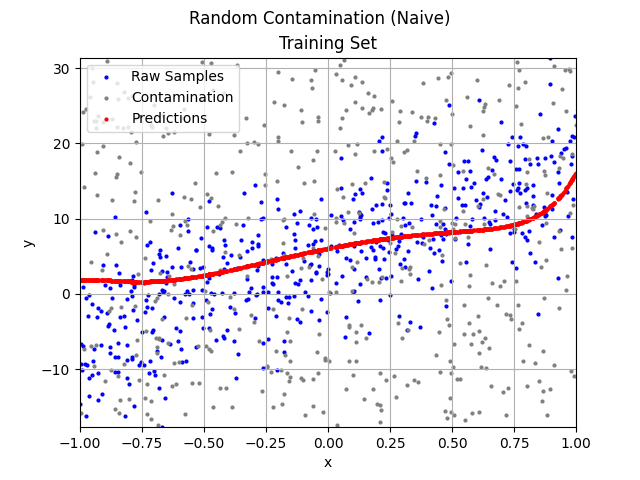
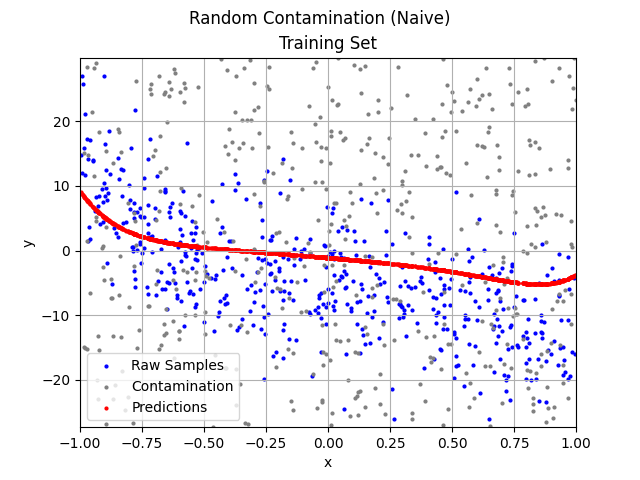
Huber Loss

diff --git a/tests/random_contamination.py b/tests/random_contamination.py
@@ -51,11 +51,39 @@ markdown_str += export_figures(
 )
 # naive model test end
 
+# huber loss test begin
+regressor = PolynomialRegressor(
+    power,
+    NullRegularization(),
+    EpsilonTrimmedHuberLoss(0, 10),
+    0.01,
+    100,
+    100000
+)
+regressor.fit(x_training, y_training)
+
+predicted_y_training = regressor.predict(x_training)
+predicted_y_testing = regressor.predict(x_testing)
+markdown_str += export_figures(
+    x_training,
+    y_training,
+    contamination_indices,
+    None,
+    None,
+    predicted_y_training,
+    x_testing,
+    y_testing,
+    predicted_y_testing,
+    "Random Contamination (Huber Loss)",
+    join("random_contamination", "huber_loss")
+)
+# huber loss test end
+
 # epsilon-trimmed huber loss test begin
 regressor = PolynomialRegressor(
     power,
     NullRegularization(),
-    EpsilonTrimmedHuberLoss(epsilon, 20),
+    EpsilonTrimmedHuberLoss(epsilon, 10),
     0.01,
     100,
     100000
@@ -81,14 +109,14 @@ markdown_str += export_figures(
 
 # mean-kernel preprocessor test begin
 preprocessor = MeanKernelPreprocessor(
-    (0.1, 5),
-    (0.02, 1),
+    (0.2, 2),
+    (0.02, 0.2),
     0.01
 )
 regressor = PolynomialRegressor(
     power,
     NullRegularization(),
-    EpsilonTrimmedHuberLoss(epsilon, 20),
+    EpsilonTrimmedSquaredLoss(0),
     0.01,
     100,
     100000
@@ -115,14 +143,14 @@ markdown_str += export_figures(
 
 # epsilon-trimmed huber loss with mean-kernel preprocessor test begin
 preprocessor = MeanKernelPreprocessor(
-    (0.1, 5),
-    (0.02, 1),
+    (0.2, 2),
+    (0.02, 0.2),
     0.01
 )
 regressor = PolynomialRegressor(
     power,
     NullRegularization(),
-    EpsilonTrimmedSquaredLoss(0),
+    EpsilonTrimmedHuberLoss(epsilon, 10),
     0.01,
     100,
     100000

diff --git a/README.md b/README.md
@@ -34,9 +34,9 @@ For all the tests, we were fitting on 9-degree polynomials (with 10 mutually ind
 
 <div style="overflow-x: scroll" markdown="block">
 
-| Test Name | Naive Training | Naive Testing | ε-trimmed Huber Loss Training | ε-trimmed Huber Loss Testing | Mean-kernel Preprocessor Training | Mean-kernel Preprocessor Testing | ε-trimmed Huber Loss with Mean-kernel Preprocessor Training | ε-trimmed Huber Loss with Mean-kernel Preprocessor Testing |
-| :-: | :-: | :-: | :-: | :-: | :-: | :-: | :-: | :-: |
-| Random Contamination | ![](test_results/random_contamination/naive/training.png) | ![](test_results/random_contamination/naive/testing.png) | ![](test_results/random_contamination/epsilon_trimmed_huber_loss/training.png) | ![](test_results/random_contamination/epsilon_trimmed_huber_loss/testing.png) | ![](test_results/random_contamination/mean_kernel_preprocessor/training.png) | ![](test_results/random_contamination/mean_kernel_preprocessor/testing.png) | ![](test_results/random_contamination/epsilon_trimmed_huber_loss_with_mean_kernel_preprocessor/training.png) | ![](test_results/random_contamination/epsilon_trimmed_huber_loss_with_mean_kernel_preprocessor/testing.png) |
-| <!-- GitHub does not render the table cell widths correctly --> | &nbsp;&nbsp;&nbsp;&nbsp;&nbsp;&nbsp;&nbsp;&nbsp;&nbsp;&nbsp;&nbsp;&nbsp;&nbsp;&nbsp;&nbsp;&nbsp;&nbsp;&nbsp;&nbsp;&nbsp;&nbsp;&nbsp;&nbsp;&nbsp;&nbsp;&nbsp;&nbsp;&nbsp;&nbsp;&nbsp;&nbsp;&nbsp;&nbsp;&nbsp;&nbsp;&nbsp;&nbsp;&nbsp;&nbsp;&nbsp;&nbsp;&nbsp;&nbsp;&nbsp;&nbsp;&nbsp;&nbsp;&nbsp;&nbsp;&nbsp;&nbsp;&nbsp;&nbsp;&nbsp;&nbsp;&nbsp;&nbsp;&nbsp;&nbsp;&nbsp;&nbsp;&nbsp;&nbsp;&nbsp; | &nbsp;&nbsp;&nbsp;&nbsp;&nbsp;&nbsp;&nbsp;&nbsp;&nbsp;&nbsp;&nbsp;&nbsp;&nbsp;&nbsp;&nbsp;&nbsp;&nbsp;&nbsp;&nbsp;&nbsp;&nbsp;&nbsp;&nbsp;&nbsp;&nbsp;&nbsp;&nbsp;&nbsp;&nbsp;&nbsp;&nbsp;&nbsp;&nbsp;&nbsp;&nbsp;&nbsp;&nbsp;&nbsp;&nbsp;&nbsp;&nbsp;&nbsp;&nbsp;&nbsp;&nbsp;&nbsp;&nbsp;&nbsp;&nbsp;&nbsp;&nbsp;&nbsp;&nbsp;&nbsp;&nbsp;&nbsp;&nbsp;&nbsp;&nbsp;&nbsp;&nbsp;&nbsp;&nbsp;&nbsp; | &nbsp;&nbsp;&nbsp;&nbsp;&nbsp;&nbsp;&nbsp;&nbsp;&nbsp;&nbsp;&nbsp;&nbsp;&nbsp;&nbsp;&nbsp;&nbsp;&nbsp;&nbsp;&nbsp;&nbsp;&nbsp;&nbsp;&nbsp;&nbsp;&nbsp;&nbsp;&nbsp;&nbsp;&nbsp;&nbsp;&nbsp;&nbsp;&nbsp;&nbsp;&nbsp;&nbsp;&nbsp;&nbsp;&nbsp;&nbsp;&nbsp;&nbsp;&nbsp;&nbsp;&nbsp;&nbsp;&nbsp;&nbsp;&nbsp;&nbsp;&nbsp;&nbsp;&nbsp;&nbsp;&nbsp;&nbsp;&nbsp;&nbsp;&nbsp;&nbsp;&nbsp;&nbsp;&nbsp;&nbsp; | &nbsp;&nbsp;&nbsp;&nbsp;&nbsp;&nbsp;&nbsp;&nbsp;&nbsp;&nbsp;&nbsp;&nbsp;&nbsp;&nbsp;&nbsp;&nbsp;&nbsp;&nbsp;&nbsp;&nbsp;&nbsp;&nbsp;&nbsp;&nbsp;&nbsp;&nbsp;&nbsp;&nbsp;&nbsp;&nbsp;&nbsp;&nbsp;&nbsp;&nbsp;&nbsp;&nbsp;&nbsp;&nbsp;&nbsp;&nbsp;&nbsp;&nbsp;&nbsp;&nbsp;&nbsp;&nbsp;&nbsp;&nbsp;&nbsp;&nbsp;&nbsp;&nbsp;&nbsp;&nbsp;&nbsp;&nbsp;&nbsp;&nbsp;&nbsp;&nbsp;&nbsp;&nbsp;&nbsp;&nbsp; | &nbsp;&nbsp;&nbsp;&nbsp;&nbsp;&nbsp;&nbsp;&nbsp;&nbsp;&nbsp;&nbsp;&nbsp;&nbsp;&nbsp;&nbsp;&nbsp;&nbsp;&nbsp;&nbsp;&nbsp;&nbsp;&nbsp;&nbsp;&nbsp;&nbsp;&nbsp;&nbsp;&nbsp;&nbsp;&nbsp;&nbsp;&nbsp;&nbsp;&nbsp;&nbsp;&nbsp;&nbsp;&nbsp;&nbsp;&nbsp;&nbsp;&nbsp;&nbsp;&nbsp;&nbsp;&nbsp;&nbsp;&nbsp;&nbsp;&nbsp;&nbsp;&nbsp;&nbsp;&nbsp;&nbsp;&nbsp;&nbsp;&nbsp;&nbsp;&nbsp;&nbsp;&nbsp;&nbsp;&nbsp; | &nbsp;&nbsp;&nbsp;&nbsp;&nbsp;&nbsp;&nbsp;&nbsp;&nbsp;&nbsp;&nbsp;&nbsp;&nbsp;&nbsp;&nbsp;&nbsp;&nbsp;&nbsp;&nbsp;&nbsp;&nbsp;&nbsp;&nbsp;&nbsp;&nbsp;&nbsp;&nbsp;&nbsp;&nbsp;&nbsp;&nbsp;&nbsp;&nbsp;&nbsp;&nbsp;&nbsp;&nbsp;&nbsp;&nbsp;&nbsp;&nbsp;&nbsp;&nbsp;&nbsp;&nbsp;&nbsp;&nbsp;&nbsp;&nbsp;&nbsp;&nbsp;&nbsp;&nbsp;&nbsp;&nbsp;&nbsp;&nbsp;&nbsp;&nbsp;&nbsp;&nbsp;&nbsp;&nbsp;&nbsp; | &nbsp;&nbsp;&nbsp;&nbsp;&nbsp;&nbsp;&nbsp;&nbsp;&nbsp;&nbsp;&nbsp;&nbsp;&nbsp;&nbsp;&nbsp;&nbsp;&nbsp;&nbsp;&nbsp;&nbsp;&nbsp;&nbsp;&nbsp;&nbsp;&nbsp;&nbsp;&nbsp;&nbsp;&nbsp;&nbsp;&nbsp;&nbsp;&nbsp;&nbsp;&nbsp;&nbsp;&nbsp;&nbsp;&nbsp;&nbsp;&nbsp;&nbsp;&nbsp;&nbsp;&nbsp;&nbsp;&nbsp;&nbsp;&nbsp;&nbsp;&nbsp;&nbsp;&nbsp;&nbsp;&nbsp;&nbsp;&nbsp;&nbsp;&nbsp;&nbsp;&nbsp;&nbsp;&nbsp;&nbsp; | &nbsp;&nbsp;&nbsp;&nbsp;&nbsp;&nbsp;&nbsp;&nbsp;&nbsp;&nbsp;&nbsp;&nbsp;&nbsp;&nbsp;&nbsp;&nbsp;&nbsp;&nbsp;&nbsp;&nbsp;&nbsp;&nbsp;&nbsp;&nbsp;&nbsp;&nbsp;&nbsp;&nbsp;&nbsp;&nbsp;&nbsp;&nbsp;&nbsp;&nbsp;&nbsp;&nbsp;&nbsp;&nbsp;&nbsp;&nbsp;&nbsp;&nbsp;&nbsp;&nbsp;&nbsp;&nbsp;&nbsp;&nbsp;&nbsp;&nbsp;&nbsp;&nbsp;&nbsp;&nbsp;&nbsp;&nbsp;&nbsp;&nbsp;&nbsp;&nbsp;&nbsp;&nbsp;&nbsp;&nbsp; |
+| Test Name | Naive Training | Naive Testing | Huber Loss Training | Huber Loss Testing | ε-trimmed Huber Loss Training | ε-trimmed Huber Loss Testing | Mean-kernel Preprocessor Training | Mean-kernel Preprocessor Testing | ε-trimmed Huber Loss with Mean-kernel Preprocessor Training | ε-trimmed Huber Loss with Mean-kernel Preprocessor Testing |
+| :-: | :-: | :-: | :-: | :-: | :-: | :-: | :-: | :-: | :-: | :-: |
+| Random Contamination | ![](test_results/random_contamination/naive/training.png) | ![](test_results/random_contamination/naive/testing.png) | ![](test_results/random_contamination/huber_loss/training.png) | ![](test_results/random_contamination/huber_loss/testing.png) | ![](test_results/random_contamination/epsilon_trimmed_huber_loss/training.png) | ![](test_results/random_contamination/epsilon_trimmed_huber_loss/testing.png) | ![](test_results/random_contamination/mean_kernel_preprocessor/training.png) | ![](test_results/random_contamination/mean_kernel_preprocessor/testing.png) | ![](test_results/random_contamination/epsilon_trimmed_huber_loss_with_mean_kernel_preprocessor/training.png) | ![](test_results/random_contamination/epsilon_trimmed_huber_loss_with_mean_kernel_preprocessor/testing.png) |
+| <!-- GitHub does not render the table cell widths correctly --> | &nbsp;&nbsp;&nbsp;&nbsp;&nbsp;&nbsp;&nbsp;&nbsp;&nbsp;&nbsp;&nbsp;&nbsp;&nbsp;&nbsp;&nbsp;&nbsp;&nbsp;&nbsp;&nbsp;&nbsp;&nbsp;&nbsp;&nbsp;&nbsp;&nbsp;&nbsp;&nbsp;&nbsp;&nbsp;&nbsp;&nbsp;&nbsp;&nbsp;&nbsp;&nbsp;&nbsp;&nbsp;&nbsp;&nbsp;&nbsp;&nbsp;&nbsp;&nbsp;&nbsp;&nbsp;&nbsp;&nbsp;&nbsp;&nbsp;&nbsp;&nbsp;&nbsp;&nbsp;&nbsp;&nbsp;&nbsp;&nbsp;&nbsp;&nbsp;&nbsp;&nbsp;&nbsp;&nbsp;&nbsp; | &nbsp;&nbsp;&nbsp;&nbsp;&nbsp;&nbsp;&nbsp;&nbsp;&nbsp;&nbsp;&nbsp;&nbsp;&nbsp;&nbsp;&nbsp;&nbsp;&nbsp;&nbsp;&nbsp;&nbsp;&nbsp;&nbsp;&nbsp;&nbsp;&nbsp;&nbsp;&nbsp;&nbsp;&nbsp;&nbsp;&nbsp;&nbsp;&nbsp;&nbsp;&nbsp;&nbsp;&nbsp;&nbsp;&nbsp;&nbsp;&nbsp;&nbsp;&nbsp;&nbsp;&nbsp;&nbsp;&nbsp;&nbsp;&nbsp;&nbsp;&nbsp;&nbsp;&nbsp;&nbsp;&nbsp;&nbsp;&nbsp;&nbsp;&nbsp;&nbsp;&nbsp;&nbsp;&nbsp;&nbsp; | &nbsp;&nbsp;&nbsp;&nbsp;&nbsp;&nbsp;&nbsp;&nbsp;&nbsp;&nbsp;&nbsp;&nbsp;&nbsp;&nbsp;&nbsp;&nbsp;&nbsp;&nbsp;&nbsp;&nbsp;&nbsp;&nbsp;&nbsp;&nbsp;&nbsp;&nbsp;&nbsp;&nbsp;&nbsp;&nbsp;&nbsp;&nbsp;&nbsp;&nbsp;&nbsp;&nbsp;&nbsp;&nbsp;&nbsp;&nbsp;&nbsp;&nbsp;&nbsp;&nbsp;&nbsp;&nbsp;&nbsp;&nbsp;&nbsp;&nbsp;&nbsp;&nbsp;&nbsp;&nbsp;&nbsp;&nbsp;&nbsp;&nbsp;&nbsp;&nbsp;&nbsp;&nbsp;&nbsp;&nbsp; | &nbsp;&nbsp;&nbsp;&nbsp;&nbsp;&nbsp;&nbsp;&nbsp;&nbsp;&nbsp;&nbsp;&nbsp;&nbsp;&nbsp;&nbsp;&nbsp;&nbsp;&nbsp;&nbsp;&nbsp;&nbsp;&nbsp;&nbsp;&nbsp;&nbsp;&nbsp;&nbsp;&nbsp;&nbsp;&nbsp;&nbsp;&nbsp;&nbsp;&nbsp;&nbsp;&nbsp;&nbsp;&nbsp;&nbsp;&nbsp;&nbsp;&nbsp;&nbsp;&nbsp;&nbsp;&nbsp;&nbsp;&nbsp;&nbsp;&nbsp;&nbsp;&nbsp;&nbsp;&nbsp;&nbsp;&nbsp;&nbsp;&nbsp;&nbsp;&nbsp;&nbsp;&nbsp;&nbsp;&nbsp; | &nbsp;&nbsp;&nbsp;&nbsp;&nbsp;&nbsp;&nbsp;&nbsp;&nbsp;&nbsp;&nbsp;&nbsp;&nbsp;&nbsp;&nbsp;&nbsp;&nbsp;&nbsp;&nbsp;&nbsp;&nbsp;&nbsp;&nbsp;&nbsp;&nbsp;&nbsp;&nbsp;&nbsp;&nbsp;&nbsp;&nbsp;&nbsp;&nbsp;&nbsp;&nbsp;&nbsp;&nbsp;&nbsp;&nbsp;&nbsp;&nbsp;&nbsp;&nbsp;&nbsp;&nbsp;&nbsp;&nbsp;&nbsp;&nbsp;&nbsp;&nbsp;&nbsp;&nbsp;&nbsp;&nbsp;&nbsp;&nbsp;&nbsp;&nbsp;&nbsp;&nbsp;&nbsp;&nbsp;&nbsp; | &nbsp;&nbsp;&nbsp;&nbsp;&nbsp;&nbsp;&nbsp;&nbsp;&nbsp;&nbsp;&nbsp;&nbsp;&nbsp;&nbsp;&nbsp;&nbsp;&nbsp;&nbsp;&nbsp;&nbsp;&nbsp;&nbsp;&nbsp;&nbsp;&nbsp;&nbsp;&nbsp;&nbsp;&nbsp;&nbsp;&nbsp;&nbsp;&nbsp;&nbsp;&nbsp;&nbsp;&nbsp;&nbsp;&nbsp;&nbsp;&nbsp;&nbsp;&nbsp;&nbsp;&nbsp;&nbsp;&nbsp;&nbsp;&nbsp;&nbsp;&nbsp;&nbsp;&nbsp;&nbsp;&nbsp;&nbsp;&nbsp;&nbsp;&nbsp;&nbsp;&nbsp;&nbsp;&nbsp;&nbsp; | &nbsp;&nbsp;&nbsp;&nbsp;&nbsp;&nbsp;&nbsp;&nbsp;&nbsp;&nbsp;&nbsp;&nbsp;&nbsp;&nbsp;&nbsp;&nbsp;&nbsp;&nbsp;&nbsp;&nbsp;&nbsp;&nbsp;&nbsp;&nbsp;&nbsp;&nbsp;&nbsp;&nbsp;&nbsp;&nbsp;&nbsp;&nbsp;&nbsp;&nbsp;&nbsp;&nbsp;&nbsp;&nbsp;&nbsp;&nbsp;&nbsp;&nbsp;&nbsp;&nbsp;&nbsp;&nbsp;&nbsp;&nbsp;&nbsp;&nbsp;&nbsp;&nbsp;&nbsp;&nbsp;&nbsp;&nbsp;&nbsp;&nbsp;&nbsp;&nbsp;&nbsp;&nbsp;&nbsp;&nbsp; | &nbsp;&nbsp;&nbsp;&nbsp;&nbsp;&nbsp;&nbsp;&nbsp;&nbsp;&nbsp;&nbsp;&nbsp;&nbsp;&nbsp;&nbsp;&nbsp;&nbsp;&nbsp;&nbsp;&nbsp;&nbsp;&nbsp;&nbsp;&nbsp;&nbsp;&nbsp;&nbsp;&nbsp;&nbsp;&nbsp;&nbsp;&nbsp;&nbsp;&nbsp;&nbsp;&nbsp;&nbsp;&nbsp;&nbsp;&nbsp;&nbsp;&nbsp;&nbsp;&nbsp;&nbsp;&nbsp;&nbsp;&nbsp;&nbsp;&nbsp;&nbsp;&nbsp;&nbsp;&nbsp;&nbsp;&nbsp;&nbsp;&nbsp;&nbsp;&nbsp;&nbsp;&nbsp;&nbsp;&nbsp; | &nbsp;&nbsp;&nbsp;&nbsp;&nbsp;&nbsp;&nbsp;&nbsp;&nbsp;&nbsp;&nbsp;&nbsp;&nbsp;&nbsp;&nbsp;&nbsp;&nbsp;&nbsp;&nbsp;&nbsp;&nbsp;&nbsp;&nbsp;&nbsp;&nbsp;&nbsp;&nbsp;&nbsp;&nbsp;&nbsp;&nbsp;&nbsp;&nbsp;&nbsp;&nbsp;&nbsp;&nbsp;&nbsp;&nbsp;&nbsp;&nbsp;&nbsp;&nbsp;&nbsp;&nbsp;&nbsp;&nbsp;&nbsp;&nbsp;&nbsp;&nbsp;&nbsp;&nbsp;&nbsp;&nbsp;&nbsp;&nbsp;&nbsp;&nbsp;&nbsp;&nbsp;&nbsp;&nbsp;&nbsp; | &nbsp;&nbsp;&nbsp;&nbsp;&nbsp;&nbsp;&nbsp;&nbsp;&nbsp;&nbsp;&nbsp;&nbsp;&nbsp;&nbsp;&nbsp;&nbsp;&nbsp;&nbsp;&nbsp;&nbsp;&nbsp;&nbsp;&nbsp;&nbsp;&nbsp;&nbsp;&nbsp;&nbsp;&nbsp;&nbsp;&nbsp;&nbsp;&nbsp;&nbsp;&nbsp;&nbsp;&nbsp;&nbsp;&nbsp;&nbsp;&nbsp;&nbsp;&nbsp;&nbsp;&nbsp;&nbsp;&nbsp;&nbsp;&nbsp;&nbsp;&nbsp;&nbsp;&nbsp;&nbsp;&nbsp;&nbsp;&nbsp;&nbsp;&nbsp;&nbsp;&nbsp;&nbsp;&nbsp;&nbsp; |
 
 </div>
